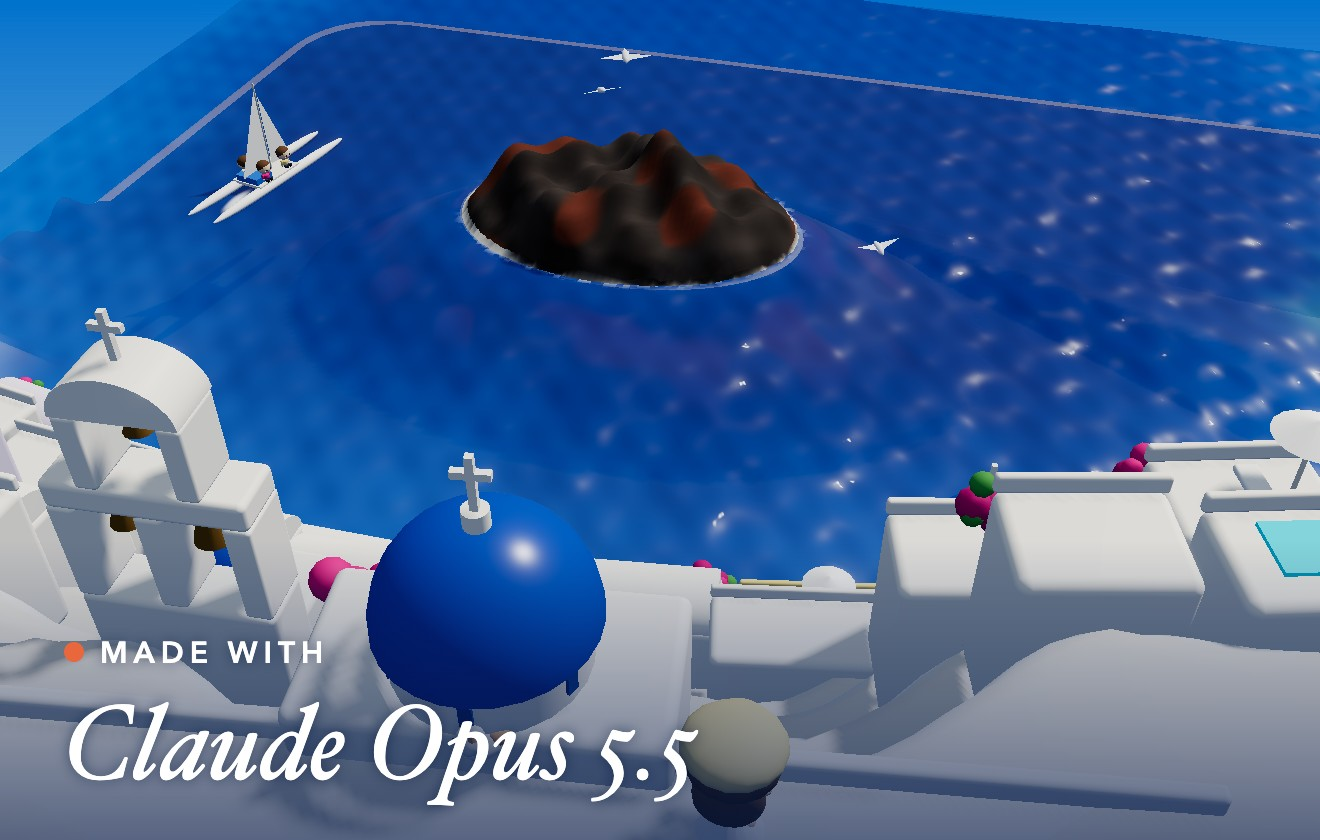
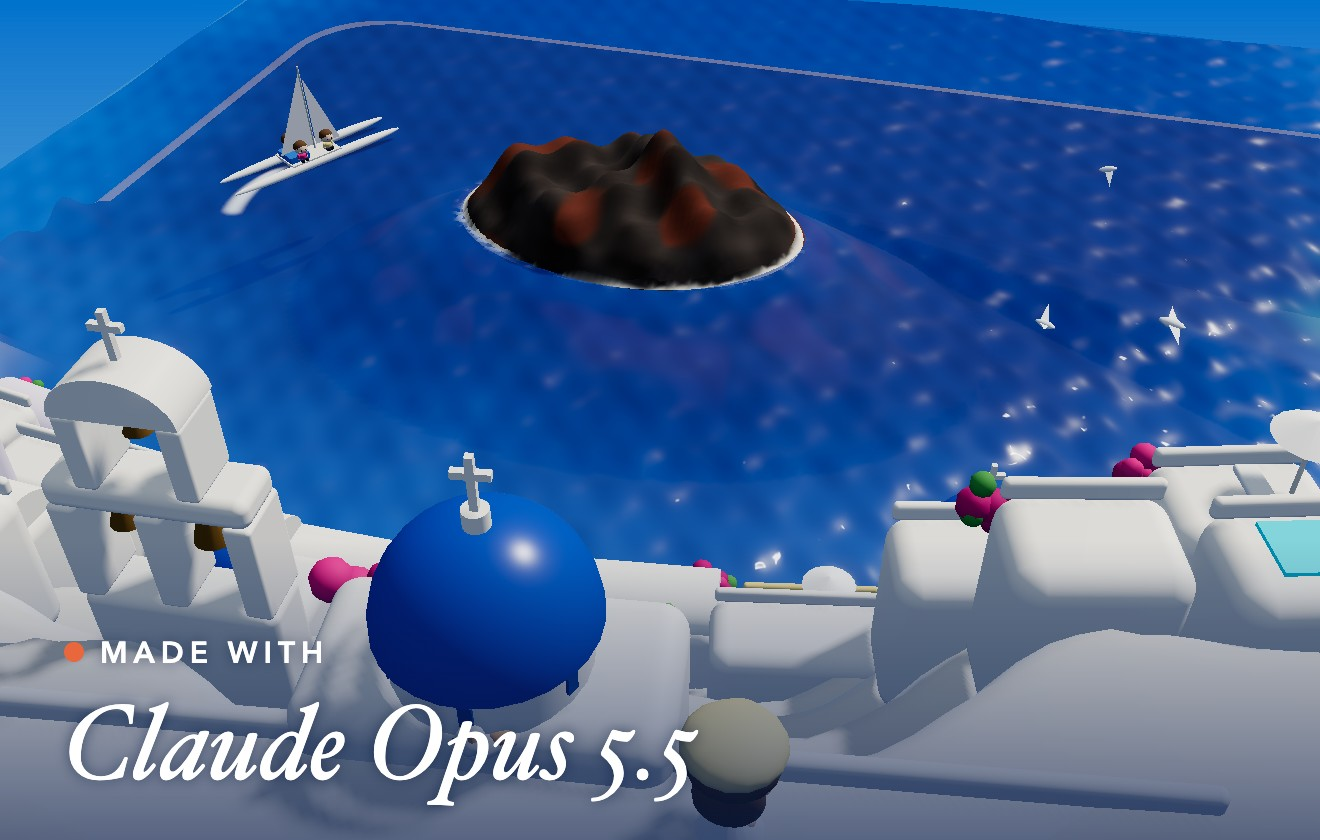
Blue domes: rounder houses and a smooth path down the cliff
Softer plaster corners on the houses, church and bell tower, arched doors,
rounded terrace walls, and the zigzag steps as one smooth white path with a
rounded wall. The village merges indexed parts with shared vertices, so it
went from 450k to 168k vertices. New thumbnail to match.

diff --git a/santorini/src/village.js b/santorini/src/village.js
@@ -4,6 +4,8 @@
 // it, the windmill on the ridge, the zigzag steps down the face to the harbour with its tavernas and pier. Everything that
 // doesn't move is one mesh (and the domes, the pools: one each, for their gloss).
 import * as THREE from 'three';
+import { RoundedBoxGeometry } from 'three/addons/geometries/RoundedBoxGeometry.js';
+import { mergeVertices } from 'three/addons/utils/BufferGeometryUtils.js';
 import { Kit, toy } from '../../fuji/src/kit.js';
 import { at, facing, terraceY, rim, faceTop, profile, ROWS, ROW, FACE, HARBOR, RC } from './land.js';
 
@@ -21,7 +23,26 @@ const cellD = (row) => (row < ROWS ? FACE + row * ROW + 0.38 : FACE + ROWS * ROW
 const vaultG = new THREE.CylinderGeometry(1, 1, 1, 16, 1, false, 0, Math.PI).rotateZ(Math.PI / 2); // (along x, arched up)
 const archG = new THREE.CylinderGeometry(1, 1, 1, 16, 1, false, -Math.PI / 2, Math.PI).rotateX(-Math.PI / 2); // (along z: an arch seen from the front)
 const domeG = new THREE.SphereGeometry(1, 28, 14, 0, Math.PI * 2, 0, Math.PI / 2);
-const drumG = new THREE.CylinderGeometry(1, 1, 1, 24), coneG = new THREE.ConeGeometry(1, 1, 18), ballG = new THREE.IcosahedronGeometry(1, 1);
+const drumG = new THREE.CylinderGeometry(1, 1, 1, 24), coneG = new THREE.ConeGeometry(1, 1, 18), ballG = new THREE.SphereGeometry(1, 9, 7);
+
+// fuji's toy box, but kept indexed: its Kit unshares every vertex, three times the memory for a village this size. So every
+// part here is an indexed geometry (no icosahedra), and boxes are rounder (three segments to the corner: soft plaster).
+const M4 = new THREE.Matrix4(), Q4 = new THREE.Quaternion(), E4 = new THREE.Euler(), P4 = new THREE.Vector3(), S4 = new THREE.Vector3(), C4 = new THREE.Color();
+// a rounded box with its corners' vertices shared (three's comes unshared: 1764 vertices at three segments, ~300 shared)
+const rounded = (w, h, d, seg, r) => { const g = new RoundedBoxGeometry(w, h, d, seg, r); g.deleteAttribute('uv'); const m = mergeVertices(g, 1e-5); g.dispose(); return m; };
+class IKit extends Kit {
+  add(geo, color, x = 0, y = 0, z = 0, { rx = 0, ry = 0, rz = 0, s = 1 } = {}) {
+    const g = geo.clone();
+    for (const k of Object.keys(g.attributes)) if (k !== 'position' && k !== 'normal') g.deleteAttribute(k);
+    g.applyMatrix4(M4.compose(P4.set(x, y, z), Q4.setFromEuler(E4.set(rx, ry, rz)), Array.isArray(s) ? S4.set(...s) : S4.setScalar(s)));
+    C4.set(color); const n = g.attributes.position.count, a = new Float32Array(n * 3);
+    for (let i = 0; i < n; i++) { a[i * 3] = C4.r; a[i * 3 + 1] = C4.g; a[i * 3 + 2] = C4.b; }
+    g.setAttribute('color', new THREE.BufferAttribute(a, 3));
+    if (!g.index) g.setIndex([...Array(n).keys()]);
+    this.parts.push(g); return this;
+  }
+  box(w, h, d, color, x, y, z, { r = Math.min(w, h, d) * 0.22, seg = 3, ...o } = {}) { return this.add(r > 0 ? rounded(w, h, d, seg, r) : new THREE.BoxGeometry(w, h, d), color, x, y, z, o); }
+}
 
 // the special places: [angle, row, width, what]
 const SPECIAL = [
@@ -32,15 +53,16 @@ const SPECIAL = [
 const blocked = (a, row, w) => SPECIAL.some(([sa, sr, sw]) => sr === row && Math.abs(a - sa) * rad * (RC + cellD(row)) < (w + sw) / 2 + 0.08);
 
 function house(k, pools, f, w, h, dp, { col = WHITE, vault = false, top = true } = {}) {
-  k.box(w, h, dp, col, ...f.P(0, h / 2, 0), { ry: f.ry, r: 0.06 });
+  k.box(w, h, dp, col, ...f.P(0, h / 2, 0), { ry: f.ry, r: 0.13 });
   const door = rnd() < 0.85 ? BLUE : rnd() < 0.5 ? 0x5fb6e6 : 0xb8473a;
   const dx = (rnd() - 0.5) * Math.max(0, w - 0.42);
-  k.box(0.19, 0.32, 0.03, door, ...f.P(dx, 0.27, dp / 2), { ry: f.ry, r: 0 });
+  k.box(0.19, 0.24, 0.03, door, ...f.P(dx, 0.21, dp / 2), { ry: f.ry, r: 0 });
+  k.add(archG, door, ...f.P(dx, 0.33, dp / 2), { ry: f.ry, s: [0.095, 0.095, 0.03] }); // (an arched top)
   const wx = dx > 0 ? dx - 0.3 : dx + 0.3;
-  if (Math.abs(wx) < w / 2 - 0.1) k.box(0.14, 0.15, 0.03, door, ...f.P(wx, 0.4, dp / 2), { ry: f.ry, r: 0 });
-  if (h > 1.25) k.box(0.15, 0.17, 0.03, door, ...f.P(-dx * 0.6, h - 0.32, dp / 2), { ry: f.ry, r: 0 });
+  if (Math.abs(wx) < w / 2 - 0.1) k.box(0.14, 0.15, 0.03, door, ...f.P(wx, 0.4, dp / 2), { ry: f.ry, r: 0.012, seg: 1 });
+  if (h > 1.25) k.box(0.15, 0.17, 0.03, door, ...f.P(-dx * 0.6, h - 0.32, dp / 2), { ry: f.ry, r: 0.012, seg: 1 });
   if (vault) { k.add(vaultG, col, ...f.P(0, h - 0.01, 0), { ry: f.ry, s: [w * 0.97, dp * 0.36, dp * 0.49] }); return; }
-  k.box(w, 0.1, 0.05, col, ...f.P(0, h + 0.04, dp / 2 - 0.025), { ry: f.ry, r: 0.02 }); // (the terrace's low wall)
+  k.box(w - 0.06, 0.11, 0.06, col, ...f.P(0, h + 0.03, dp / 2 - 0.05), { ry: f.ry, r: 0.028, seg: 2 }); // (the terrace's low wall)
   if (!top) return;
   const r = rnd();
   if (r < 0.14 && w > 0.85) pools.box(w * 0.6, 0.03, dp * 0.5, 0x3fd6e8, ...f.P(0, h + 0.005, 0.02), { ry: f.ry, r: 0 }); // a pool
@@ -62,7 +84,7 @@ function flowers(k, f, x, y, z) {
 }
 
 function church(k, domes, f, w, h, dp, dr) {
-  k.box(w, h, dp, WHITE, ...f.P(0, h / 2, 0), { ry: f.ry, r: 0.05 });
+  k.box(w, h, dp, WHITE, ...f.P(0, h / 2, 0), { ry: f.ry, r: 0.12 });
   k.box(0.2, 0.36, 0.03, BLUE, ...f.P(0, 0.28, dp / 2), { ry: f.ry, r: 0 });
   k.add(archG, WHITE, ...f.P(0, 0.46, dp / 2 + 0.005), { ry: f.ry, s: [0.12, 0.12, 0.03] });
   k.add(drumG, WHITE, ...f.P(0, h + 0.1, 0), { ry: f.ry, s: [dr * 0.9, 0.22, dr * 0.9] });
@@ -76,9 +98,9 @@ function church(k, domes, f, w, h, dp, dr) {
 
 function belfry(k, f, scene) {
   const T = 0.28;
-  k.box(0.86, 0.8, T, WHITE, ...f.P(0, 0.4, 0), { ry: f.ry, r: 0.03 });
+  k.box(0.86, 0.8, T, WHITE, ...f.P(0, 0.4, 0), { ry: f.ry, r: 0.05 });
   for (const lx of [-0.37, 0, 0.37]) k.box(0.12, 0.5, T, WHITE, ...f.P(lx, 1.05, 0), { ry: f.ry, r: 0.02 });
-  k.box(0.86, 0.14, T, WHITE, ...f.P(0, 1.36, 0), { ry: f.ry, r: 0.03 });
+  k.box(0.86, 0.14, T, WHITE, ...f.P(0, 1.36, 0), { ry: f.ry, r: 0.05 });
   for (const lx of [-0.21, 0.21]) k.box(0.1, 0.36, T, WHITE, ...f.P(lx, 1.6, 0), { ry: f.ry, r: 0.02 });
   k.add(archG, WHITE, ...f.P(0, 1.78, 0), { ry: f.ry, s: [0.26, 0.2, T] });
   k.box(0.03, 0.22, 0.03, WHITE, ...f.P(0, 2.08, 0), { ry: f.ry, r: 0 });
@@ -121,19 +143,28 @@ function steps(k) {
     for (let s = j ? 1 : 0; s <= N; s++) {
       const u = s / N, a = from + (to - from) * u, y = y0 + (y1 - y0) * (j + u) / LEGS;
       const d = FACE * Math.pow(Math.max(0.01, y) / faceTop(a), 1 / 0.7) + 0.08;
-      const [x, z] = at(a, d); path.push([x, y, z, a]);
+      const [x, z] = at(a, d); path.push([x, y, z, a, j]);
     }
   }
+  // the way: one smooth white ribbon down the face (a top, a sea side and a cliff side, each with its own normal, both
+  // windings, since the legs run both ways), and a low rounded wall along its sea side
+  const pos = [], nor = [], idx = [], W = 0.22, DEEP = 0.42;
   for (const [x, y, z, a] of path) {
-    const ry = facing(a), f = frame(x, y, z, ry);
-    k.box(0.26, 0.5, 0.44, PAVE, ...f.P(0, -0.25, 0), { ry, r: 0 });
-    k.box(0.26, 0.13, 0.05, WHITE, ...f.P(0, 0.06, 0.21), { ry, r: 0 });
+    const f = frame(x, y, z, facing(a)), sea = [Math.sin(f.ry), 0, Math.cos(f.ry)];
+    for (const [lz, ly, n] of [[-W, 0, [0, 1, 0]], [W, 0, [0, 1, 0]], [W, 0, sea], [W, -DEEP, sea], [-W, -DEEP, sea.map((v) => -v)], [-W, 0, sea.map((v) => -v)]]) { pos.push(...f.P(0, ly, lz)); nor.push(...n); }
+  }
+  for (let i = 0; i < path.length - 1; i++) for (const [p, q] of [[0, 1], [2, 3], [4, 5]]) { const A = i * 6, B = A + 6; idx.push(A + p, B + p, A + q, A + q, B + p, B + q, A + q, B + p, A + p, B + q, B + p, A + q); }
+  const way = new THREE.BufferGeometry(); way.setAttribute('position', new THREE.Float32BufferAttribute(pos, 3)); way.setAttribute('normal', new THREE.Float32BufferAttribute(nor, 3)); way.setIndex(idx);
+  k.add(way, PAVE);
+  for (let j = 0; j < LEGS; j++) {
+    const leg = path.filter((p) => p[4] === j);
+    k.tube(leg.map(([x, y, z, a]) => frame(x, y, z, facing(a)).P(0, 0.06, W - 0.03)), 0.05, WHITE, 28);
   }
   return path;
 }
 
 export function village(scene) {
-  const k = new Kit(), domes = new Kit(), pools = new Kit();
+  const k = new IKit(), domes = new IKit(), pools = new IKit();
 
   // the houses, row by row up the terraces, and along the top
   for (let row = 0; row <= ROWS; row++) {
@@ -163,16 +194,16 @@ export function village(scene) {
   flowers(k, ch, 0.66, 1.1, 0.39);
 
   // the hero's terrace at the top: paved, a low wall at its edge, a bench
-  { const f = slot(-101, 6.55, rim(-101)); k.box(4.4, 0.06, 0.9, PAVE, ...f.P(0, 0.03, 0.1), { ry: f.ry, r: 0.02 }); k.box(4.4, 0.16, 0.08, WHITE, ...f.P(0, 0.08, 0.53), { ry: f.ry, r: 0.03 }); }
+  { const f = slot(-101, 6.55, rim(-101)); k.box(4.4, 0.06, 0.9, PAVE, ...f.P(0, 0.03, 0.1), { ry: f.ry, r: 0.02 }); k.box(4.4, 0.16, 0.08, WHITE, ...f.P(0, 0.08, 0.53), { ry: f.ry, r: 0.05 }); }
   // the café terrace: two tables under parasols
-  { const f = slot(-88, cellD(5), rim(-88)); k.box(1.5, 0.06, 0.8, PAVE, ...f.P(0, 0.03, 0), { ry: f.ry, r: 0.02 }); k.box(1.5, 0.16, 0.07, WHITE, ...f.P(0, 0.08, 0.4), { ry: f.ry, r: 0.03 });
+  { const f = slot(-88, cellD(5), rim(-88)); k.box(1.5, 0.06, 0.8, PAVE, ...f.P(0, 0.03, 0), { ry: f.ry, r: 0.02 }); k.box(1.5, 0.16, 0.07, WHITE, ...f.P(0, 0.08, 0.4), { ry: f.ry, r: 0.05 });
     for (const lx of [-0.4, 0.4]) { const [x, y, z] = f.P(lx, 0, 0); k.add(drumG, BLUE, x, y + 0.17, z, { s: [0.11, 0.03, 0.11] }); k.add(drumG, BLUE, x, y + 0.085, z, { s: [0.02, 0.17, 0.02] }); k.add(drumG, 0xe8e2d4, x, y + 0.3, z, { s: [0.012, 0.6, 0.012] }); k.add(coneG, 0xfbfaf6, x, y + 0.62, z, { s: [0.32, 0.12, 0.32] }); } }
 
   // the windmill on the ridge
   const sails = windmill(k, slot(-68, cellD(5) - 0.2, rim(-68)), scene);
 
   // cave houses dug into the top of the face
-  for (const a of [-131, -127.5, -84, -79.5, -75, -168, -172.5]) { const d = 1.72, f = slot(a, d, profile(d, a) - 0.25); k.box(0.7, 0.62, 0.3, WHITE, ...f.P(0, 0.31, 0.05), { ry: f.ry, r: 0.05 }); k.box(0.17, 0.3, 0.03, BLUE, ...f.P(0, 0.2, 0.2), { ry: f.ry, r: 0 }); k.add(archG, BLUE, ...f.P(0, 0.35, 0.2), { ry: f.ry, s: [0.085, 0.085, 0.03] }); }
+  for (const a of [-131, -127.5, -84, -79.5, -75, -168, -172.5]) { const d = 1.72, f = slot(a, d, profile(d, a) - 0.25); k.box(0.7, 0.62, 0.3, WHITE, ...f.P(0, 0.31, 0.05), { ry: f.ry, r: 0.1 }); k.box(0.17, 0.3, 0.03, BLUE, ...f.P(0, 0.2, 0.2), { ry: f.ry, r: 0 }); k.add(archG, BLUE, ...f.P(0, 0.35, 0.2), { ry: f.ry, s: [0.085, 0.085, 0.03] }); }
 
   // the steps down to the harbour
   const path = steps(k);

diff --git a/santorini/DESIGN.md b/santorini/DESIGN.md
@@ -152,5 +152,6 @@
   - 教会は上から2段目（4段目）。上の平らな所のテラスから見おろすと、ドームが海と火山島を背に立つ
   - 絵はがきの視点は教会の真うしろの高い所から、少し望遠（横長 38°、縦長 44°）。鐘楼と青いドームが湾を背に立ち、奥に火山島とカタマラン。教会のまわりの家は白だけ
   - メモリ：ジオメトリ 25、テクスチャ 16。村はまとめて1つのメッシュ（ドームとプールは光沢のために別に1つずつ）
+- 丸みを足した（ユーザー「カクカクしている」）：家・教会・鐘楼の角を大きく丸め（半径 0.13、角の段 3）、扉はアーチ形、テラスの低い壁も丸く。石段は板を並べるのをやめ、崖をなめらかに下る白い1本の道と、海側の丸い低い壁に。村の部品は頂点を共有したまま合体（`IKit`）、丸い箱も頂点をまとめるので、頂点は 45 万 → 17 万に減った
 - トップページに World 10 のカード（`santorini/thumb.jpg`、「Made with Claude Opus 5.5」入り。`film/santorini.js` の `thumb()` で作る）、地球儀に JTR（サントリーニ島）のピンと、白い家と青いドームの模型（`world/src/places.js`、`world/src/map.js` の `domes`）
 - 9:16 の動画「Blue domes」（`film/santorini.js`、約45秒、英語の字幕、終わりは共通の名前カード）。音は波（`film/make-sea.sh santorini`）
